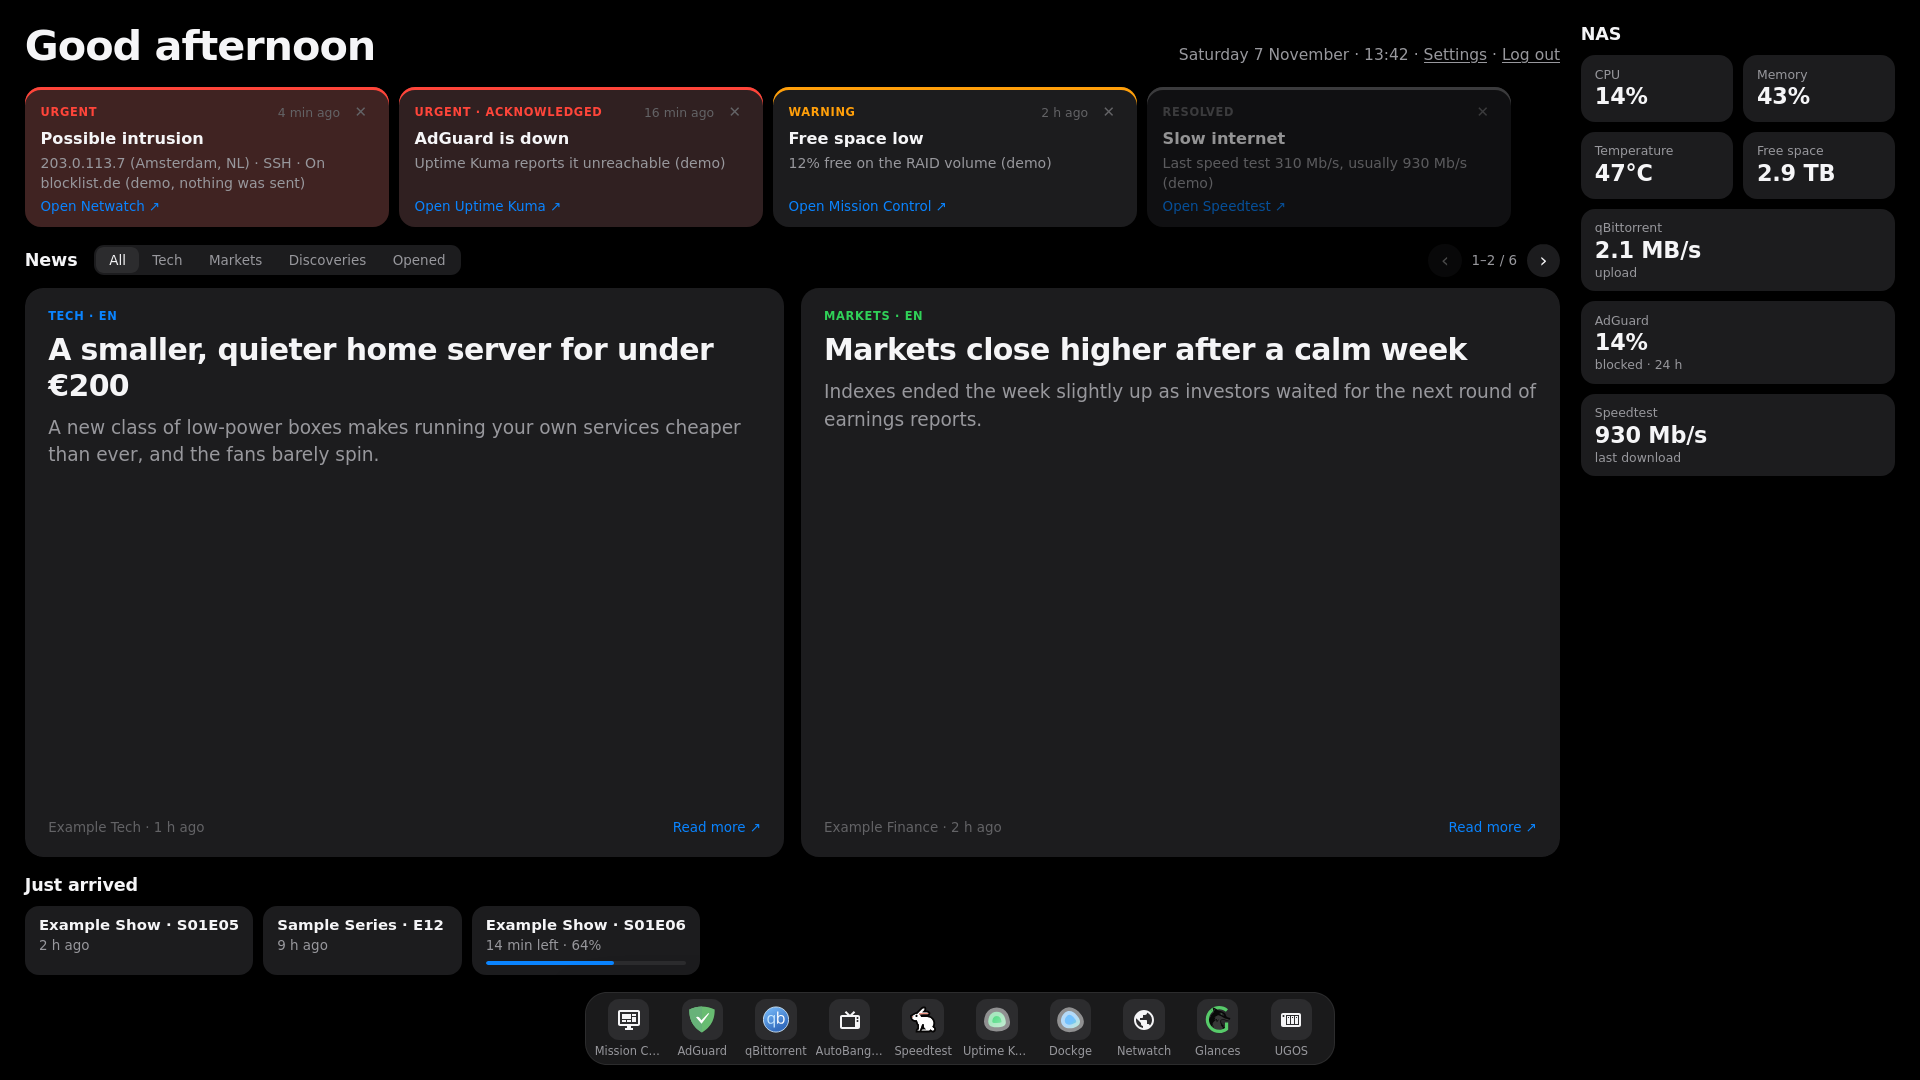
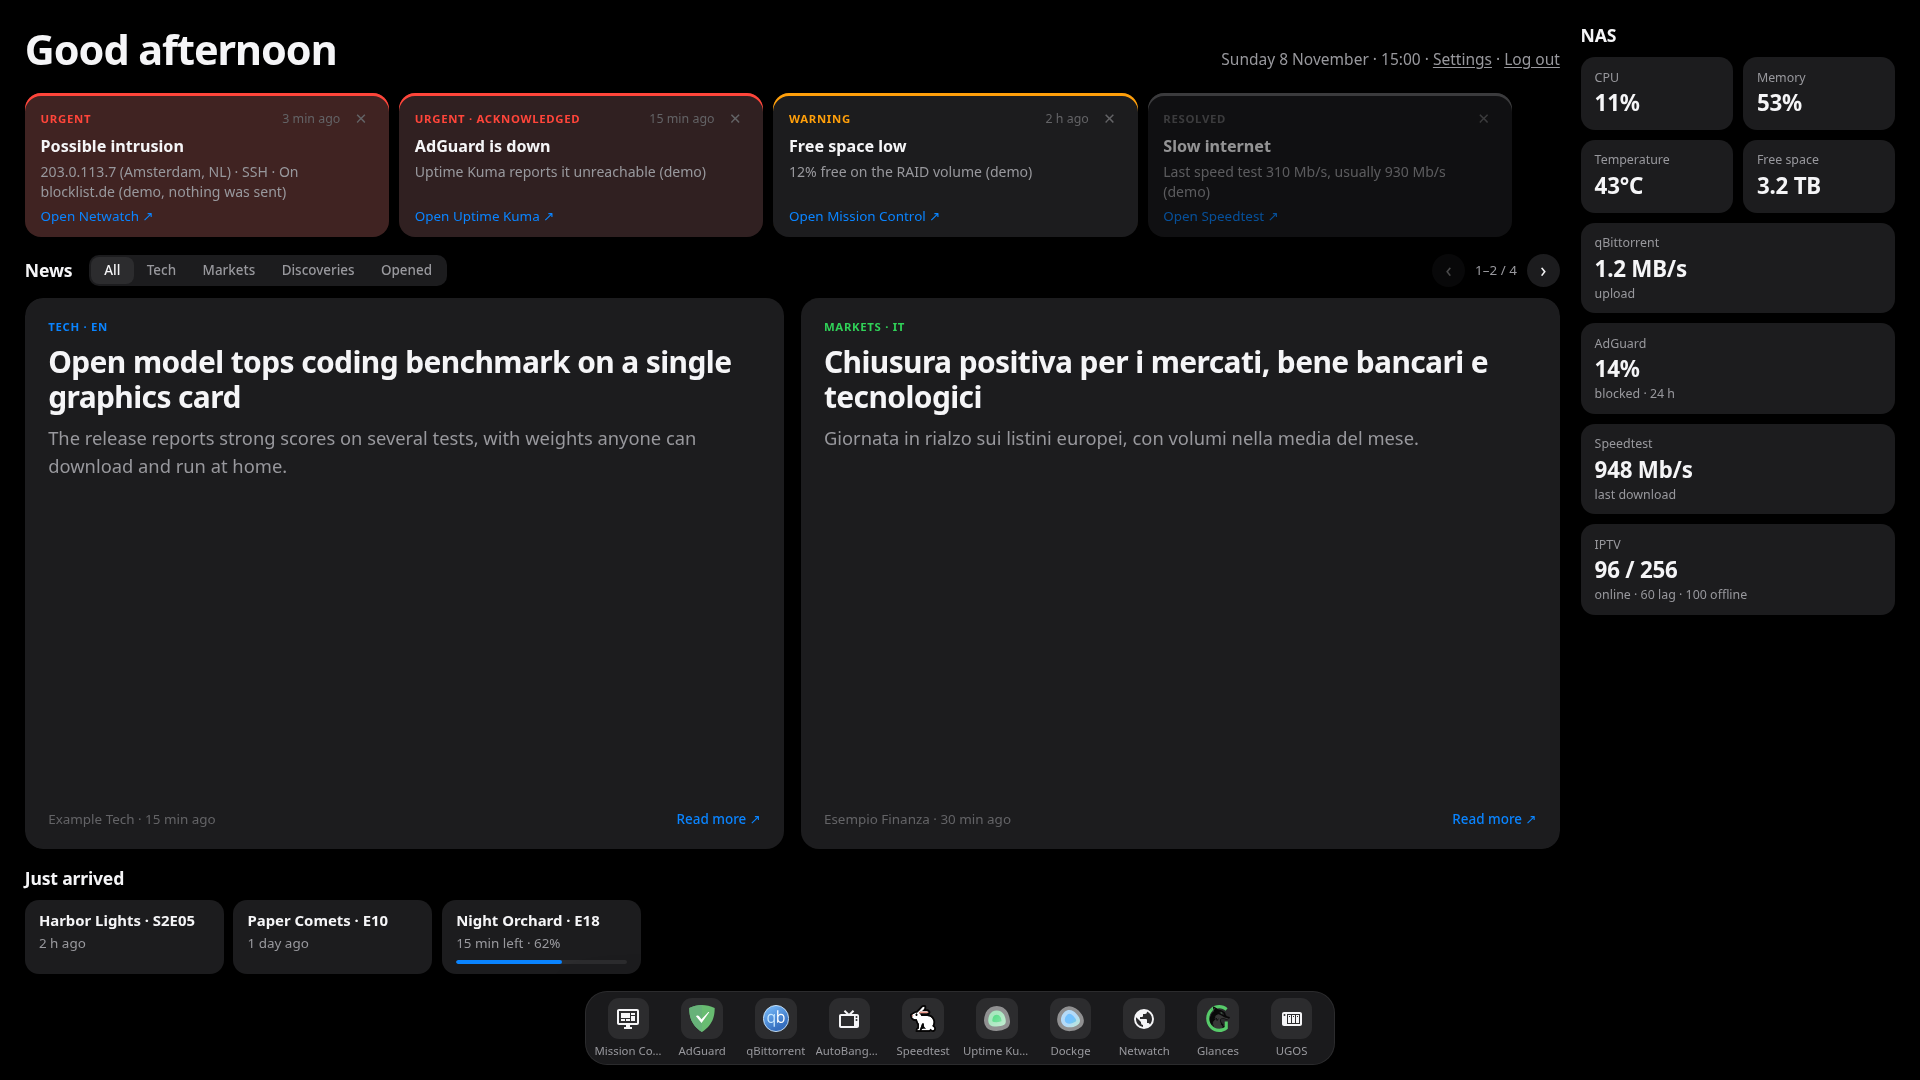
README and screenshots: TV page, IPTV lists

diff --git a/README.md b/README.md
@@ -21,6 +21,14 @@ Made-up data unless noted, because this repo is public. All of them, with descri
 
 ![Owner's page with alert cards, news, NAS numbers and dock](docs/screenshots/home.png)
 
+**TV idle page:** what the Fire TV shows when nobody is using it, at `/tv`.
+
+![TV page with a large clock, weather, a what-to-bring tip, a news card and new episodes](docs/screenshots/tv.png)
+
+**IPTV lists:** channel status per playlist, with lists added by address or file.
+
+![IPTV page with online, lagging and offline counts for each playlist and a form to add one](docs/screenshots/iptv.png)
+
 **Mission Control:** performance history, disks and services.
 
 ![Mission Control with a processor history chart and service cards](docs/screenshots/mission.png)
@@ -119,7 +127,7 @@ All stacks live in `/volume1/docker/<stack>/` on the NAS and in [`stacks/`](stac
 | Service | URL | Stack folder | Purpose |
 |---|---|---|---|
 | AdGuard Home | http://192.168.1.14:8080 | `adguard` | Network-wide ad and tracker blocking (DNS) |
-| Home | http://192.168.1.14:3001 | `home` | Public summary for family and guests; the owner's page at `/admin/` (attention with urgent takeover + push, news, arrivals, dock) needs the admin login (own code) |
+| Home | http://192.168.1.14:3001 | `home` | Public summary for family and guests, the TV idle page at `/tv` and the clean IPTV playlist at `/iptv.m3u`; the owner's page at `/admin/` (attention with urgent takeover + push, news, arrivals, IPTV lists, dock) needs the admin login (own code) |
 | Homepage (retired) | — | `homepage` | Old gethomepage dashboard; only its docker proxy (`dockerproxy-2375`) still runs |
 | qBittorrent | http://192.168.1.14:8888 | UGREEN app (`@appstore`) | Downloads and seeding |
 | AutoBangumi | http://192.168.1.14:7892 | `autobangumi` | Anime RSS (Mikan) → qBittorrent, renames for the Theater |
@@ -266,9 +274,9 @@ The page on **:3001** (own code, stack [`stacks/home`](stacks/home/)). It replac
 - Summary text is reduced to plain text on the server.
 - **Archive** (`data/news.db`, SQLite): every story shown is kept for 30 days; stories whose *Read more* link you clicked are kept for 90 days from the last click, with an open count. Pruned on every feed refresh.
 
-**How it works.** One Python process (stdlib only, ~20 MB RAM), `server.py`, with pure modules `feeds.py`, `attention.py` and `arrivals.py`.
+**How it works.** One Python process (stdlib only, ~20 MB RAM), `server.py`, with pure modules `feeds.py`, `attention.py`, `arrivals.py`, `weather.py` and `iptv.py`.
 
-- **Workers:** feeds every 15 min, attention every 30 s, arrivals every 60 s.
+- **Workers:** feeds every 15 min, attention every 30 s, arrivals every 60 s, weather every 30 min, IPTV check every 6 h.
 - **State:** `data/state.json` (incidents, dismissals, acknowledgements).
 - **API:**
   - `GET /api/attention`, `/api/news?topic=`, `/api/arrivals`, and `/api/prom/query` (read-only, instant queries only).
@@ -417,7 +425,7 @@ The to-do list lives in **[GitHub Issues](https://github.com/Achar0/nas-homelab/
 
 **2026-11-08**
 
-- **IPTV check:** channel status card and clean playlist at `/iptv.m3u`.
+- **IPTV:** channel status card, clean playlist at `/iptv.m3u` and a page to add, remove and check lists. Fixes from a code review: private addresses are refused, a slow server can't stall the check, empty answers don't count as online and a list that can't be read keeps its last results.
 - **TV idle page** at `/tv`: bilingual clock, weather, tip, news and new episodes on the TV (#4).
 
 **2026-11-07**

diff --git a/docs/screenshots/README.md b/docs/screenshots/README.md
@@ -10,6 +10,8 @@ Mission Control's Connections card is hidden in the sample shots, because the sc
 | [`guest-phone.png`](guest-phone.png) | The guest page on a phone |
 | [`login.png`](login.png) | The admin login sheet |
 | [`home.png`](home.png) | The owner's page at `/admin/`: alert cards in priority order, news, arrivals, NAS numbers, dock |
+| [`tv.png`](tv.png) | The TV idle page at `/tv`: clock, weather, tip, news and new episodes |
+| [`iptv.png`](iptv.png) | IPTV lists at `/admin/iptv.html`: status per list, add by address or file |
 | [`takeover.png`](takeover.png) | Full-screen takeover for an urgent alert |
 | [`mission.png`](mission.png) | Mission Control: performance history, disks and service cards |
 | [`mission-card.png`](mission-card.png) | A Mission Control service card, expanded |
